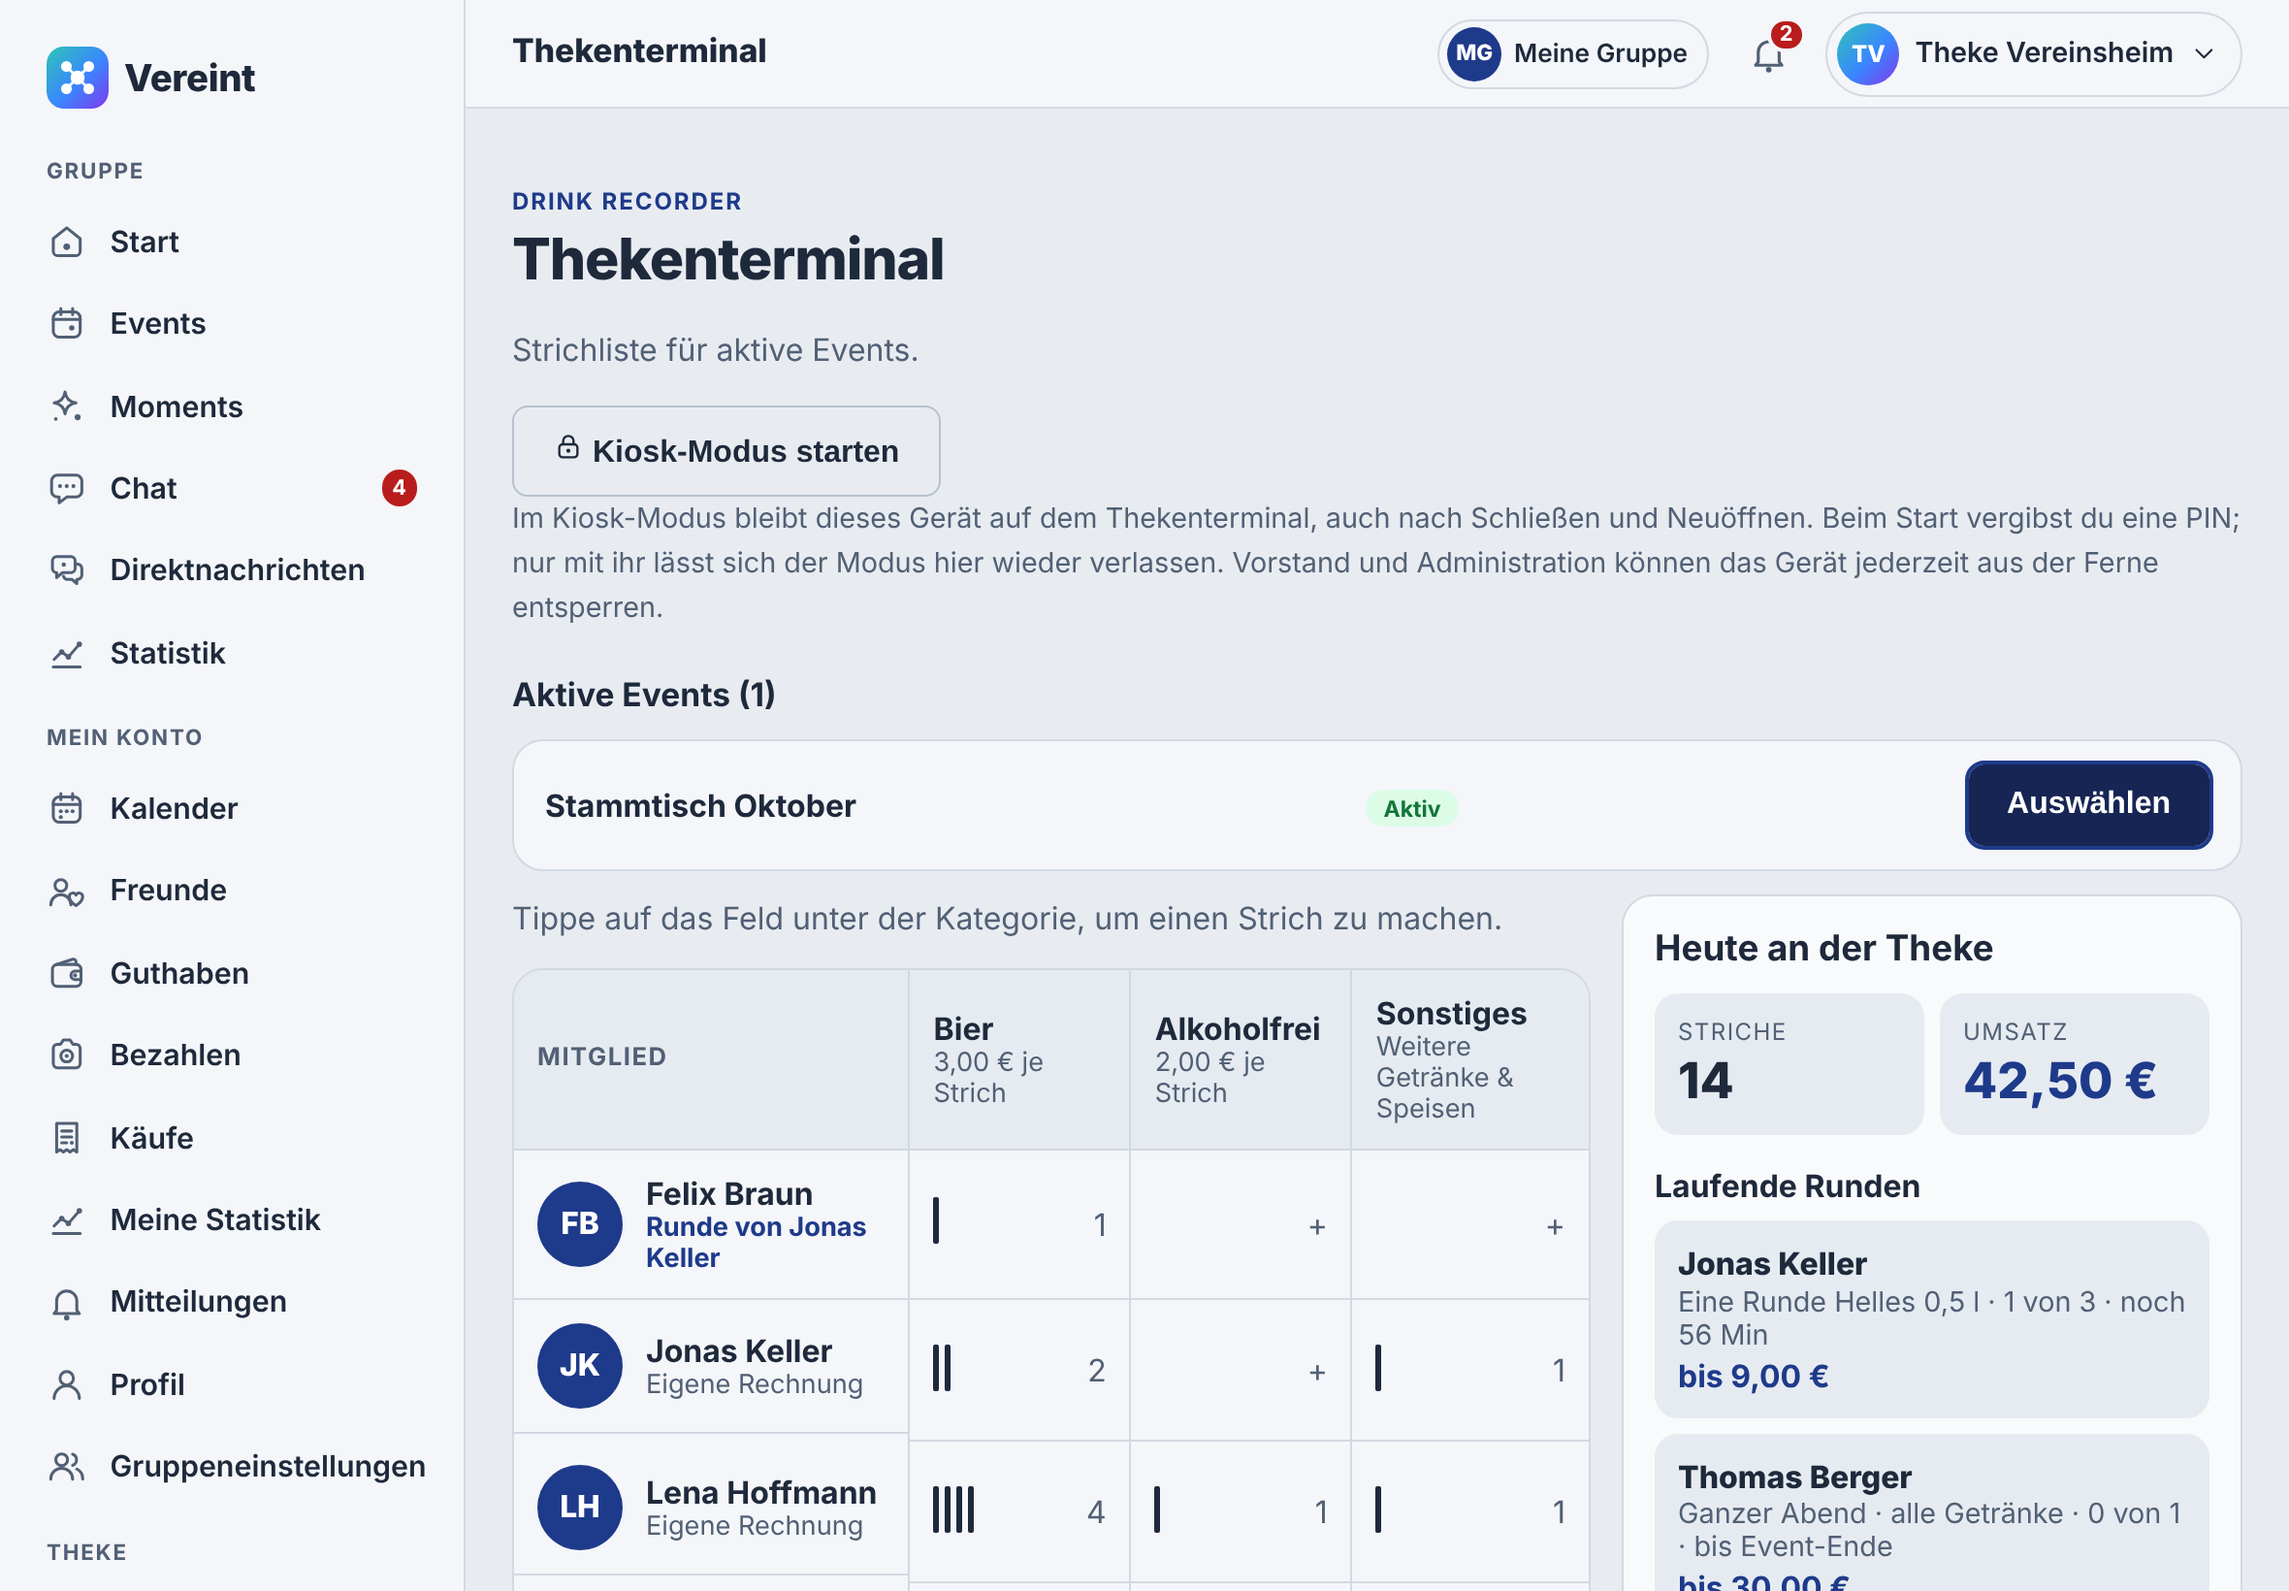
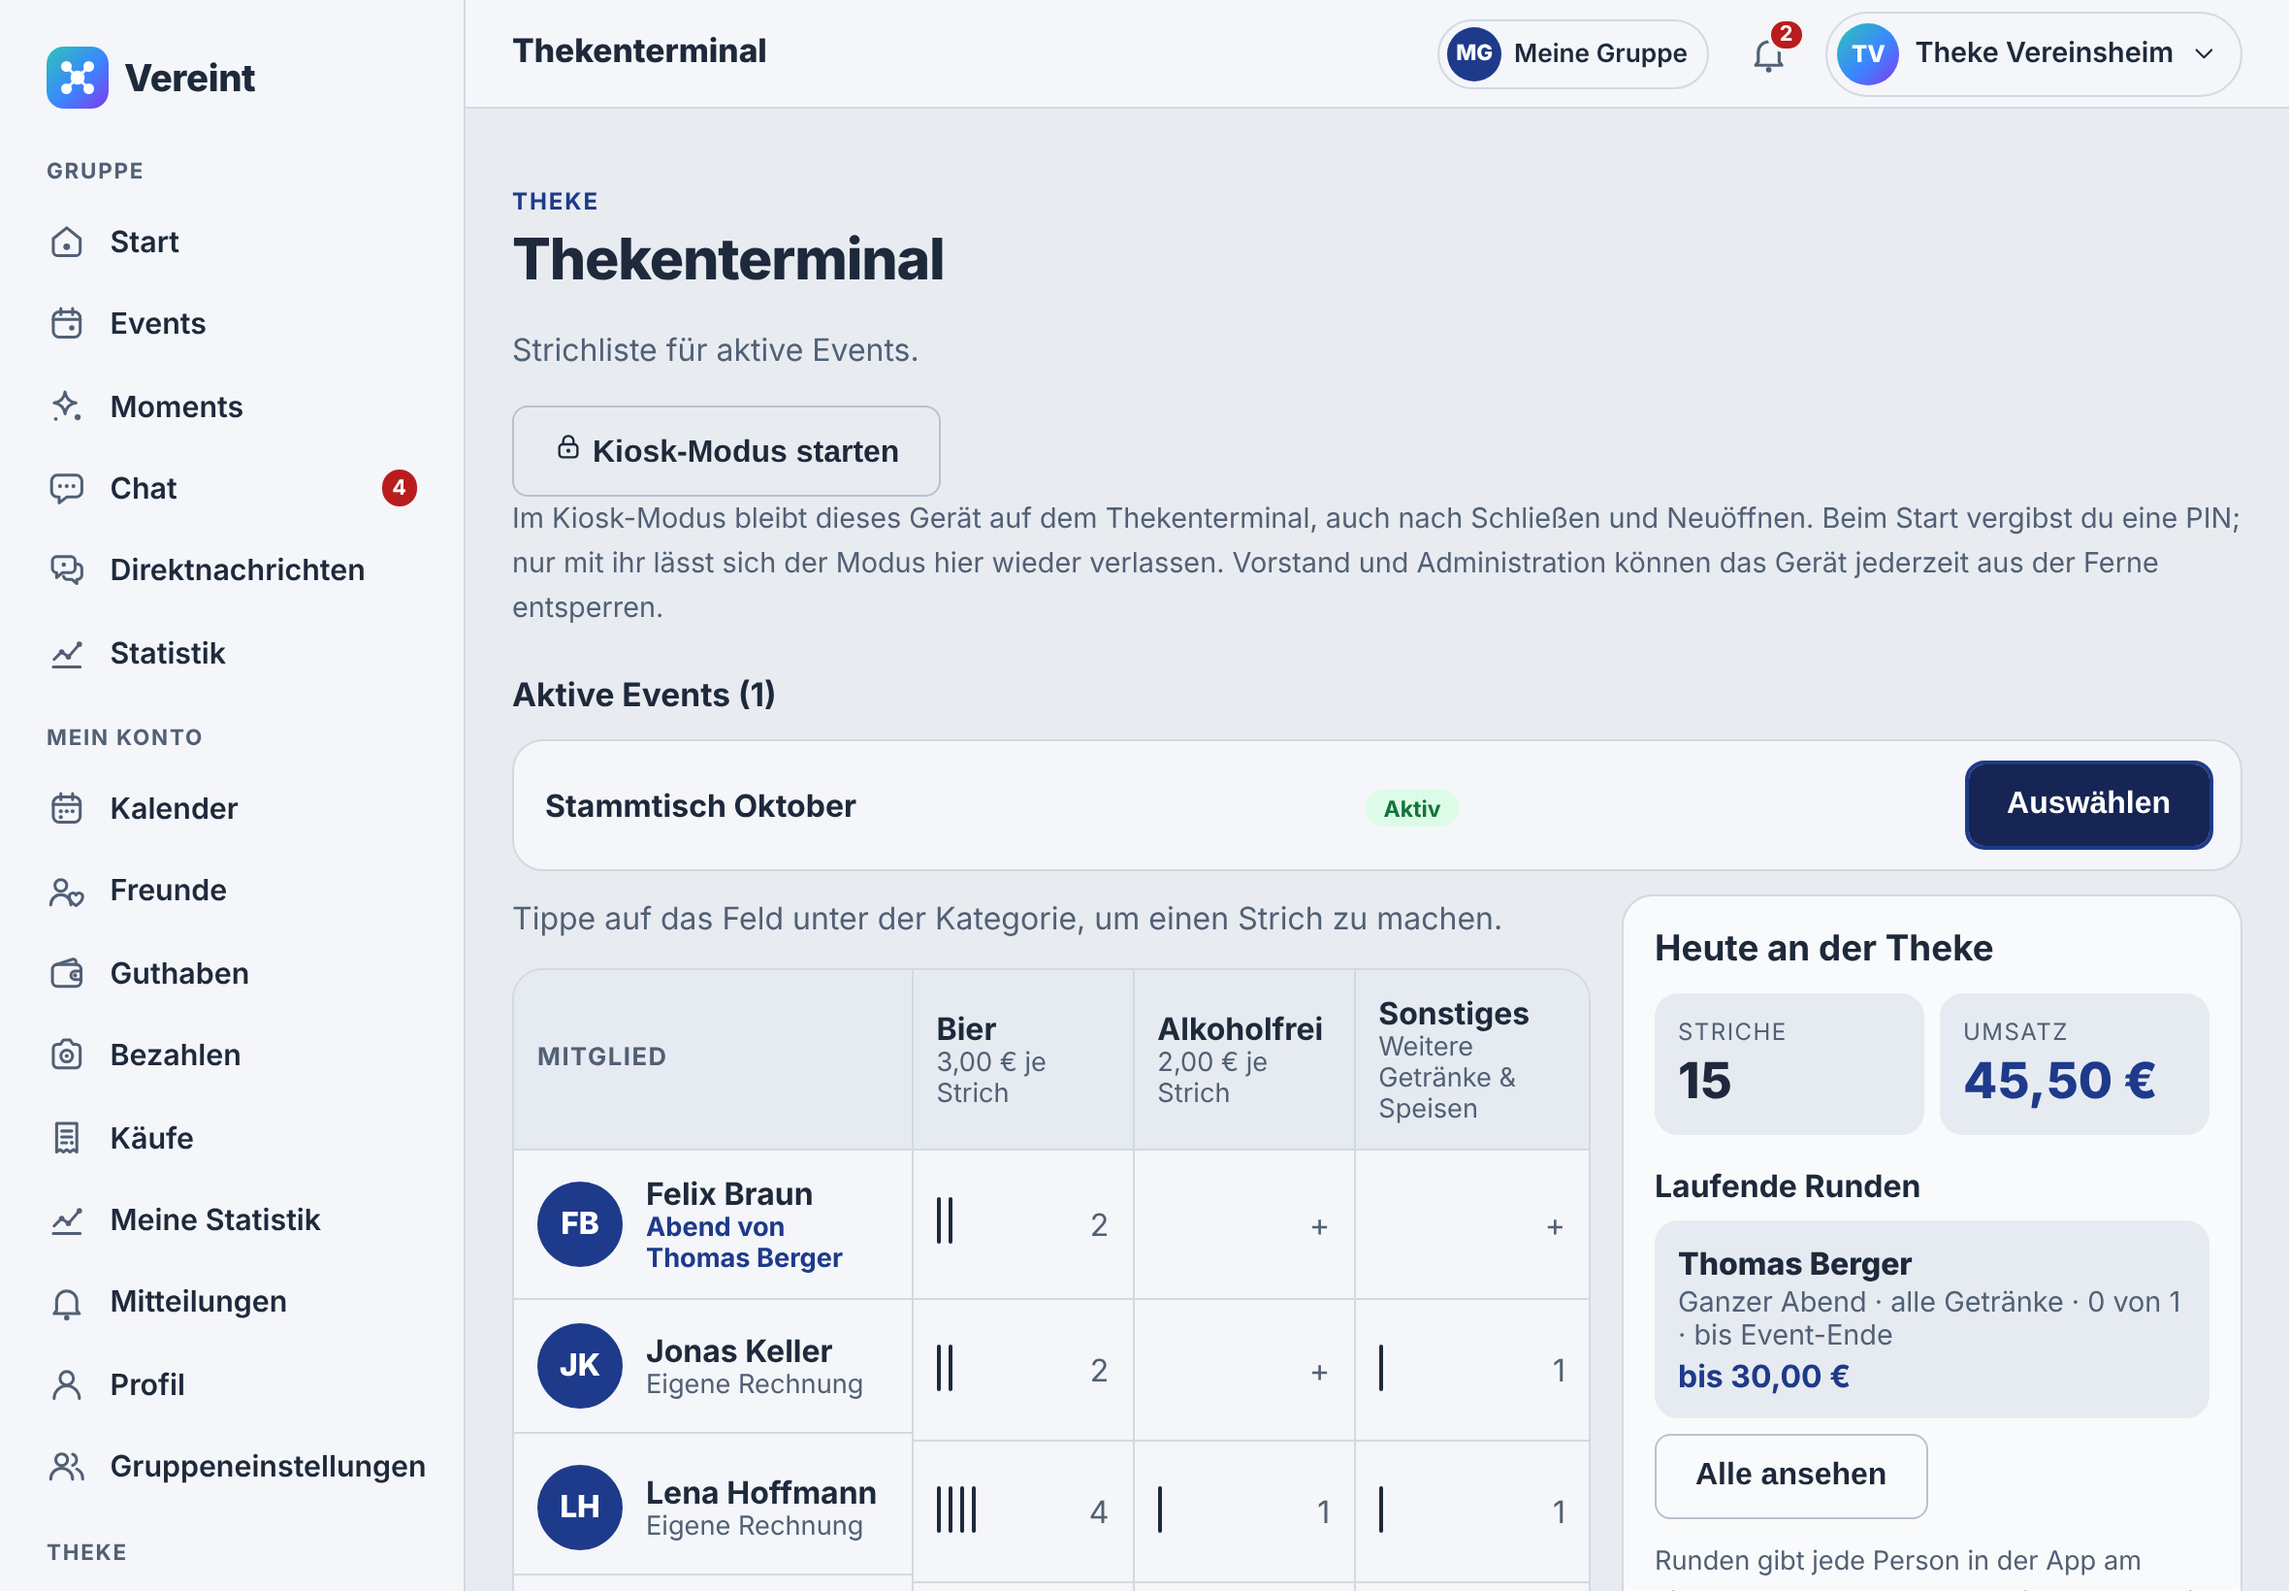
Mehr-Menü trennt lange Wörter, Spontanes-Bier-Schalter entfernt, Theke statt Drink Recorder
- Mehr-Menü am Handy: Kachelbeschriftungen wie "Gruppeneinstellungen" ragten
  über die Kachel. overflow-wrap: anywhere plus Silbentrennung hält sie drin.
- Profil: der Schalter "Spontanes Bier" war mit dem Redesign zurückgekommen,
  hat aber keine Wirkung (schon am 25.10. entfernt). Wieder raus samt Texten.
- Thekenterminal: Überschrift "Theke" statt "Drink Recorder"; Admin-Haken
  heißt "Thekendienst (Thekenterminal)".
- Handbuch-Bilder dazu neu, offene Punkte bereinigt (Chat-Push gibt es seit
  #116, Handbuch-Bilder für #80-#82 sind da).

Claude-Session: https://claude.ai/code/session_01JrB5mAzUoPijwpbnF8RUrM

diff --git a/webservice/src/app/member/profile.component.ts b/webservice/src/app/member/profile.component.ts
@@ -20,8 +20,6 @@ import { StatisticsSettingsComponent } from '../statistics/statistics-settings.c
  * persönliche Angaben) über die geteilten UI-Primitive und erlaubt die Pflege
  * von Anzeigename und E-Mail. Rollen, Status und Berechtigungen sind reine
  * Anzeige; ihre Vergabe erfolgt ausschließlich administrativ im Fachservice.
- * Der `BeerWithMe`-Schalter (Standortfreigabe) ist rein clientseitig und löst
- * keine serverseitige Mutation aus.
  */
 @Component({
   selector: 'app-member-profile',
@@ -181,7 +179,6 @@ export class ProfileComponent implements OnInit, OnDestroy {
   protected readonly saving = signal(false);
   protected readonly saveError = signal<string | null>(null);
   protected readonly saved = signal(false);
-  protected readonly beerWithMe = signal(false);
   protected readonly formatDateTime = formatDateTime;
 
   /** Datum ohne Uhrzeit („17.10.2026“). */
@@ -222,15 +219,6 @@ export class ProfileComponent implements OnInit, OnDestroy {
 
   ngOnInit(): void {
     this.reload();
-  }
-
-  /**
-   * Schaltet die `BeerWithMe`-Standortfreigabe rein clientseitig um. Der
-   * eigentliche Geolocation-Zugriff erfolgt ausschließlich im Browser; es wird
-   * kein Serverzustand verändert.
-   */
-  protected toggleBeerWithMe(): void {
-    this.beerWithMe.update((active) => !active);
   }
 
   ngOnDestroy(): void {

diff --git a/webservice/src/styles.css b/webservice/src/styles.css
@@ -975,8 +975,8 @@ a:focus-visible {
 
 .shell-more-grid {
   display: grid;
-  /* Breit genug für das längste Wort („Direktnachrichten“), damit nichts mitten im Wort
-     umbricht; auf sehr schmalen Handys bleiben es trotzdem zwei Spalten. */
+  /* Drei Spalten; lange Wörter („Gruppeneinstellungen“) trennt .shell-more-link
+     innerhalb der Kachel, statt über den Rand zu ragen. */
   grid-template-columns: repeat(3, minmax(0, 1fr));
   gap: var(--space-1);
 }
@@ -995,8 +995,15 @@ a:focus-visible {
   font-size: 0.8rem;
   font-weight: 600;
   text-align: center;
-  overflow-wrap: break-word;
-  hyphens: manual;
+  /* `anywhere` zählt beim Breitenbedarf mit, `break-word` nicht: nur so bleibt ein
+     langes Wort in der schmalen Kachel. Mit Silbentrennung bricht es an einer Silbe. */
+  overflow-wrap: anywhere;
+  hyphens: auto;
+}
+
+.shell-more-link > span {
+  min-width: 0;
+  max-width: 100%;
 }
 
 .shell-more-link:hover,

diff --git a/webservice/src/app/member/profile.component.html b/webservice/src/app/member/profile.component.html
@@ -113,23 +113,7 @@
         </div>
       </div>
 
-      <vereint-pwa-settings>
-        <div class="profile-toggle">
-          <div class="profile-toggle-text">
-            <span class="profile-toggle-title" id="beer-label">{{ 'profile.beerWithMe.short' | t }}</span>
-            <span class="member-muted">{{ 'profile.beerWithMe.shortHint' | t }}</span>
-          </div>
-          <input
-            id="beerWithMe"
-            type="checkbox"
-            role="switch"
-            aria-labelledby="beer-label"
-            [checked]="beerWithMe()"
-            [attr.aria-checked]="beerWithMe()"
-            (change)="toggleBeerWithMe()"
-          />
-        </div>
-      </vereint-pwa-settings>
+      <vereint-pwa-settings />
 
       <h2 class="member-subtitle">{{ 'profile.personalDetails' | t }}</h2>
       <dl class="member-detail-list">

diff --git a/docs/offene-punkte.md b/docs/offene-punkte.md
@@ -13,15 +13,12 @@ Issues. Stand 10.11.2026.
 | Erster Produktivbetrieb | [#57](https://github.com/damaurer/vereint/issues/57) mit Unteraufgaben |
 | Prüfen nach dem ersten Deployment: Barcode-Kamera, Web Push, Zwei-Faktor-Anmeldung und Video-Upload gehen erst unter echtem HTTPS am Handy | [#62](https://github.com/damaurer/vereint/issues/62) |
 | Rechtliches vor dem Öffnen für andere: Betreiberangaben in `webservice/src/app/legal/legal-operator.ts`, Datenschutzerklärung, AV-Vertrag ([rechtliches.md](domains/rechtliches.md#vor-dem-freischalten-der-registrierung)). Bis dahin bleibt `SIGNUP_ENABLED=false`; Einladungslinks funktionieren trotzdem | [#63](https://github.com/damaurer/vereint/issues/63) |
-| Handbuch-Bilder für die neuen Seiten aus #80, #81 und #82 aufnehmen, sobald sie da sind: Strichliste nach Kategorien, Runde am Handy, Statistiken (aufnehmen mit [`scripts/handbook`](../scripts/handbook/)) | [#70](https://github.com/damaurer/vereint/issues/70) |
 
 ## Bekannte Grenzen der App
 
 | Punkt | Stand |
 | :--- | :--- |
 | Push aus einer anderen Gruppe | Kommt eine Mitteilung aus einer anderen als der gerade gewählten Gruppe, zeigt das Gerät nur die neueste Mitteilung der gewählten Gruppe oder „Du hast eine neue Mitteilung“. |
-| BeerWithMe Status | Im Profil nur eine Vorschau, wird nicht an andere übertragen. |
 | Umstellung der Cookie-Namen auf `__Host-` | Der BFF liest Sitzung und Gruppenwahl noch unter den alten Namen ohne Präfix und schreibt sie um ([03-authentication-and-session.md](backend-for-frontend/03-authentication-and-session.md#cookie-namen-mit-__host-)). Solange gilt ein von einer anderen Anwendung unter derselben Domain gesetztes altes Cookie, wenn noch kein neues existiert. Nach dem Deployment und einer vollen Sitzungsdauer `readLegacySessionCookie` und `migrateLegacyStammtischCookie` entfernen. |
-| Push für Chat-Nachrichten | Einzelne Chat-Nachrichten lösen keinen Push aus; neue Nachrichten zeigt der Ungelesen-Zähler am Chat. |
 | Füllmenge und Kalorien der Getränkedatenbank | Aus Open Food Facts vorbefüllt, aber lückenhaft: 1002 von 1222 Startgetränken mit Füllmenge, 645 auch mit Kalorien. Fehlende Werte trägt der Vorstand am Getränk im Katalog nach; bis dahin zählen diese Getränke in der Statistik nicht bei Litern bzw. Kalorien mit. Die Kategoriegruppe für „Wer trinkt was?“ wird aus Kategorie und Name geraten. |
 | Datenschutz-Link auf der Anmeldeseite | Das Login-Theme verlinkt `/datenschutz` der App. Auf dem Server liefert die Plattform diese Seite aus; lokal gibt es sie nicht (siehe [keycloak/README.md](../keycloak/README.md#vorhandener-keycloak)). |

diff --git a/docs/handbuch/04-administration.md b/docs/handbuch/04-administration.md
@@ -50,7 +50,7 @@ Nach **Bearbeiten** erscheint unter der Liste der Bereich „… bearbeiten“ m
 | **Admin** (`admin`) | Alles vom Vorstand, dazu Mitglieder und Rollen verwalten, Gruppe, Datenexport und das Thekenterminal |
 | **Thekenterminal** (`tabletRecorder`) | Striche für alle Mitglieder erfassen |
 
-**Vorstands-Unterrolle** und **Drink Recorder**, dann **Profil speichern**. Zur Auswahl stehen **Vorsitz**, **Kassenwart**, **Schriftwart** und **Beisitzer**; sie sind eine Kennzeichnung und geben keine eigenen Rechte. Drink Recorder schaltet das Thekenterminal für dieses Mitglied frei, etwa für den Thekendienst am eigenen Handy. Das ist dasselbe wie die Rolle **Thekenterminal** unter **Rollen**.
+**Vorstands-Unterrolle** und **Thekendienst (Thekenterminal)**, dann **Profil speichern**. Zur Auswahl stehen **Vorsitz**, **Kassenwart**, **Schriftwart** und **Beisitzer**; sie sind eine Kennzeichnung und geben keine eigenen Rechte. **Thekendienst** schaltet das Thekenterminal für dieses Mitglied frei, etwa für den Thekendienst am eigenen Handy. Das ist dasselbe wie die Rolle **Thekenterminal** unter **Rollen**.
 
 **Deaktiviert**, dann **Status speichern**: beendet die Mitgliedschaft in dieser Gruppe. Die Person sieht die Gruppe nicht mehr, ihre Rollen hier entfallen, ihre Buchungen bleiben erhalten. Ihr Konto und ihre anderen Gruppen bleiben unberührt. Zum Entsperren den Haken wieder entfernen. Die Person ist dann wieder Mitglied mit der Rolle `member`; weitere Rollen vergibst du neu.
 

diff --git a/docs/handbuch/07-alle-screens.md b/docs/handbuch/07-alle-screens.md
@@ -209,7 +209,6 @@ Kontodaten und persönliche Einstellungen.
 - **Darstellung**: **System**, **Hell** oder **Dunkel**.
 - **Sprache**: **Deutsch** oder **English**, gilt sofort für die ganze App.
 - **Mitteilungen auf diesem Gerät**: Push ein- oder ausschalten.
-- **Spontanes Bier**: Freunde sehen, dass du gerade Zeit hast. Der Schalter ist noch eine Vorschau und hat keine Wirkung.
 - **App auf diesem Gerät**: **Installieren** legt Vereint auf den Startbildschirm.
 - **Statistik**: **Meine Statistik erfassen** ein- oder ausschalten, **Meine Statistik** öffnen und **Meine erfassten Statistikdaten löschen** (siehe [Meine Statistik](#meine-statistik)).
 
